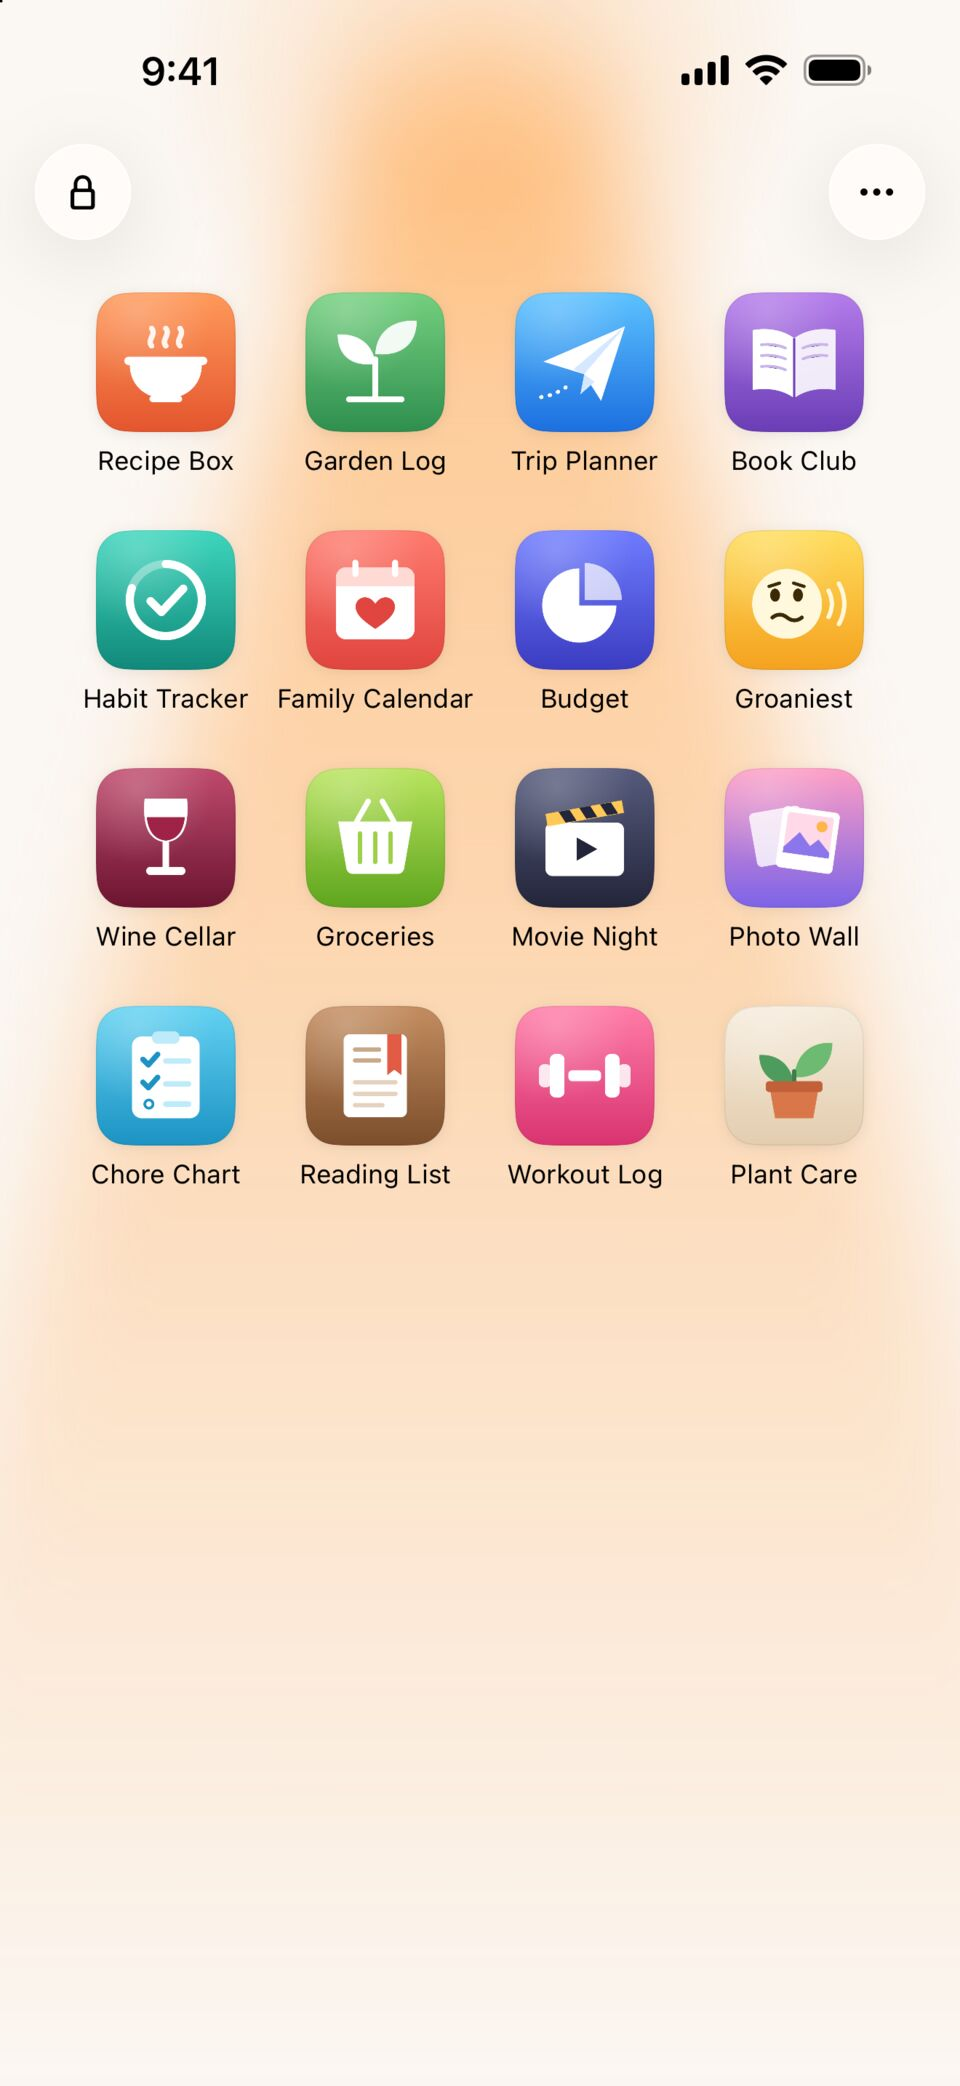
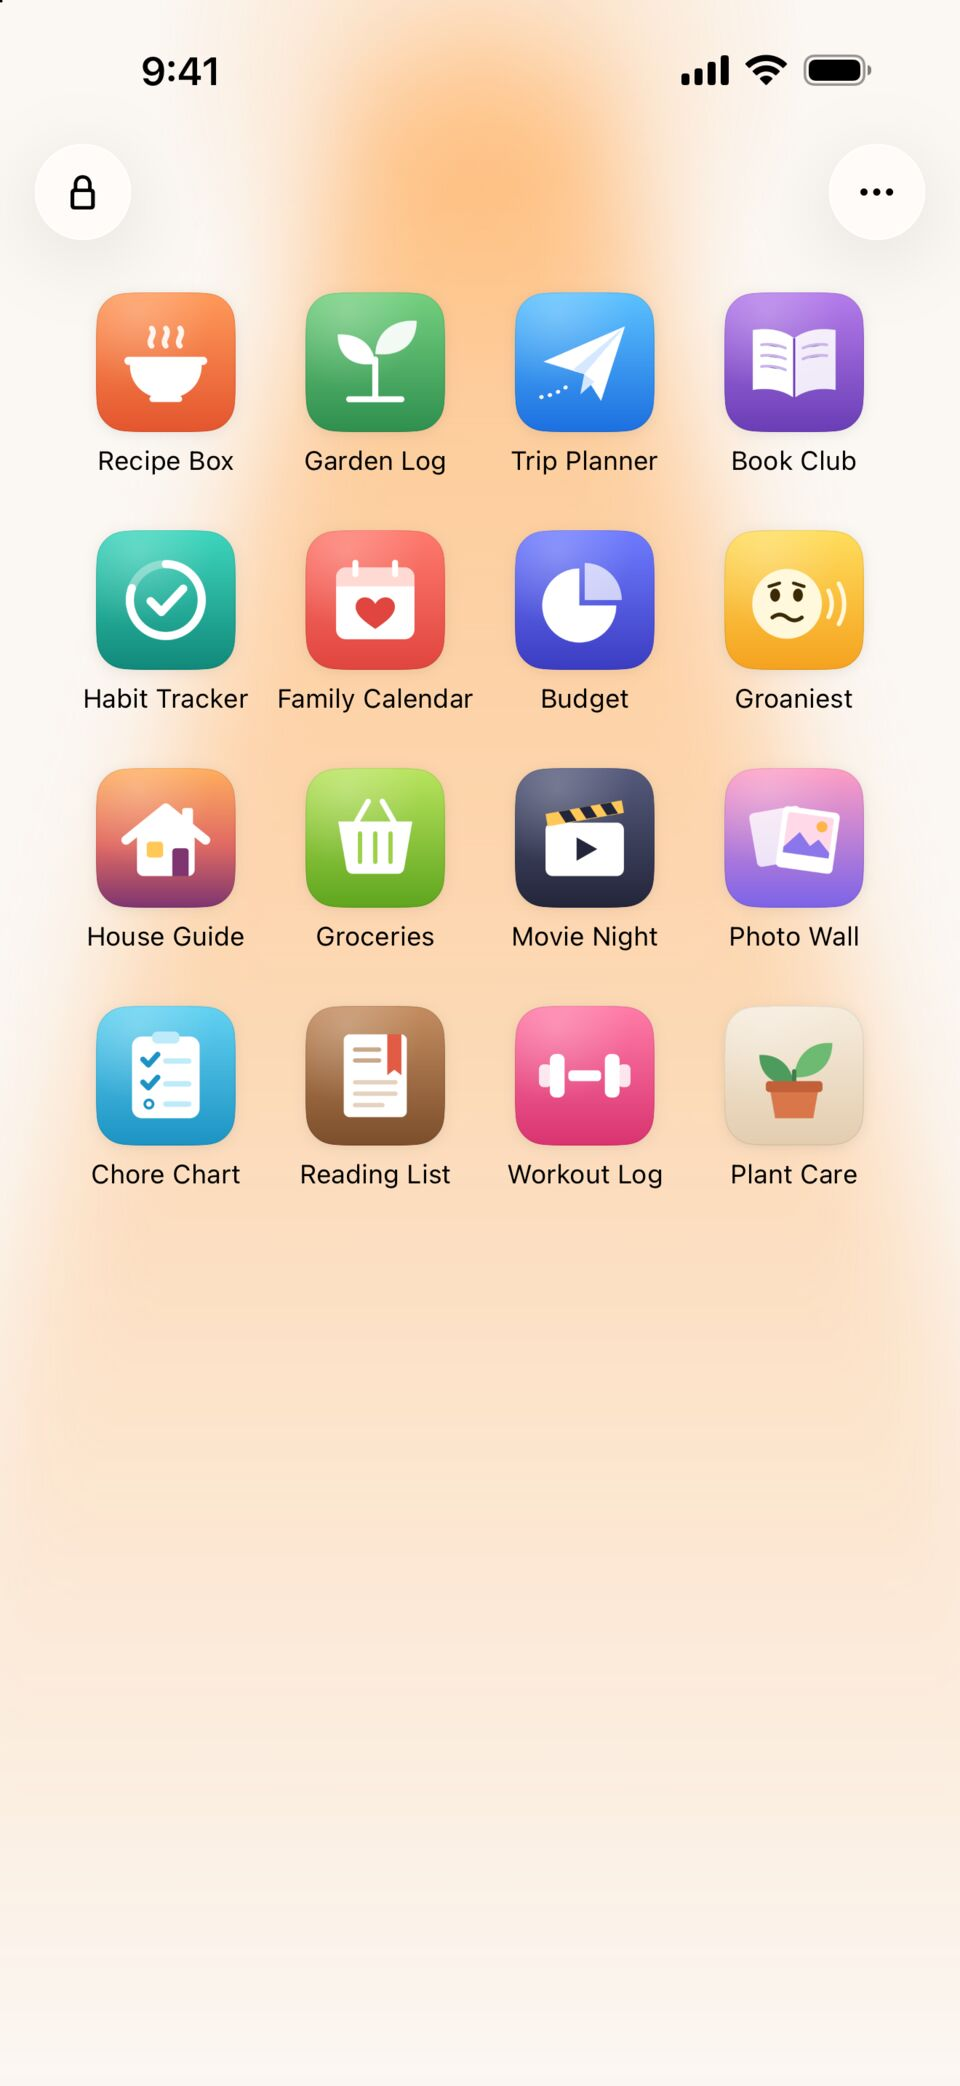
Site: House Guide replaces the Recipe Box mock, and Wine Cellar leaves the launcher
The Recipe Box mock drew its food with Apple emoji, which App Store guideline
5.2.5 bars. House Guide, the demo app Apple's reviewer joins, is captured from
the real app instead, light and dark. The launcher shots swap the Wine Cellar
tile for House Guide's, matching the App Store screenshots, which guideline
2.3.8 asks to suit a 4+ rating.

Changed region(s): [[0.0938, 0.3428, 0.25, 0.4674]]

diff --git a/site/index.html b/site/index.html
@@ -85,10 +85,10 @@
       <div class="spread">
         <figure class="phone">
           <picture>
-            <source type="image/webp" media="(prefers-color-scheme: dark)" srcset="/images/recipe-box-dark-480.webp 480w, /images/recipe-box-dark-960.webp 960w" sizes="(min-width: 832px) 296px, 68vw">
-            <source media="(prefers-color-scheme: dark)" srcset="/images/recipe-box-dark-480.jpg 480w, /images/recipe-box-dark-960.jpg 960w" sizes="(min-width: 832px) 296px, 68vw">
-            <source type="image/webp" srcset="/images/recipe-box-480.webp 480w, /images/recipe-box-960.webp 960w" sizes="(min-width: 832px) 296px, 68vw">
-            <img src="/images/recipe-box-960.jpg" srcset="/images/recipe-box-480.jpg 480w, /images/recipe-box-960.jpg 960w" sizes="(min-width: 832px) 296px, 68vw" width="960" height="2086" loading="lazy" decoding="async" alt="Recipe Box, a family recipe app, open full screen in Ovenlight: a search field, recipe categories, tonight's dinner and recently added recipes.">
+            <source type="image/webp" media="(prefers-color-scheme: dark)" srcset="/images/house-guide-dark-480.webp 480w, /images/house-guide-dark-960.webp 960w" sizes="(min-width: 832px) 296px, 68vw">
+            <source media="(prefers-color-scheme: dark)" srcset="/images/house-guide-dark-480.jpg 480w, /images/house-guide-dark-960.jpg 960w" sizes="(min-width: 832px) 296px, 68vw">
+            <source type="image/webp" srcset="/images/house-guide-480.webp 480w, /images/house-guide-960.webp 960w" sizes="(min-width: 832px) 296px, 68vw">
+            <img src="/images/house-guide-960.jpg" srcset="/images/house-guide-480.jpg 480w, /images/house-guide-960.jpg 960w" sizes="(min-width: 832px) 296px, 68vw" width="960" height="2086" loading="lazy" decoding="async" alt="House Guide, a guide to a home for a house sitter, open full screen in Ovenlight: a greeting, a search field, a drawing of the house at dusk, a welcome note, what's next for Biscuit the dog and the Wi-Fi password.">
           </picture>
         </figure>
         <div class="spread-text">

diff --git a/README.md b/README.md
@@ -22,8 +22,8 @@
     <img src="site/images/launcher-480.jpg" width="30%" alt="The Ovenlight launcher on an iPhone: apps such as Recipe Box, Garden Log, Trip Planner and Book Club, laid out like a Home Screen in warm light falling from the Dynamic Island.">
   </picture>&nbsp;
   <picture>
-    <source media="(prefers-color-scheme: dark)" srcset="site/images/recipe-box-dark-480.jpg">
-    <img src="site/images/recipe-box-480.jpg" width="30%" alt="Recipe Box, a family recipe app, open full screen in Ovenlight: a search field, recipe categories, tonight's dinner and recently added recipes.">
+    <source media="(prefers-color-scheme: dark)" srcset="site/images/house-guide-dark-480.jpg">
+    <img src="site/images/house-guide-480.jpg" width="30%" alt="House Guide, a guide to a home for a house sitter, open full screen in Ovenlight: a greeting, a search field, a drawing of the house at dusk, a welcome note, what's next for Biscuit the dog and the Wi-Fi password.">
   </picture>&nbsp;
   <picture>
     <source media="(prefers-color-scheme: dark)" srcset="site/images/join-dark-480.jpg">
